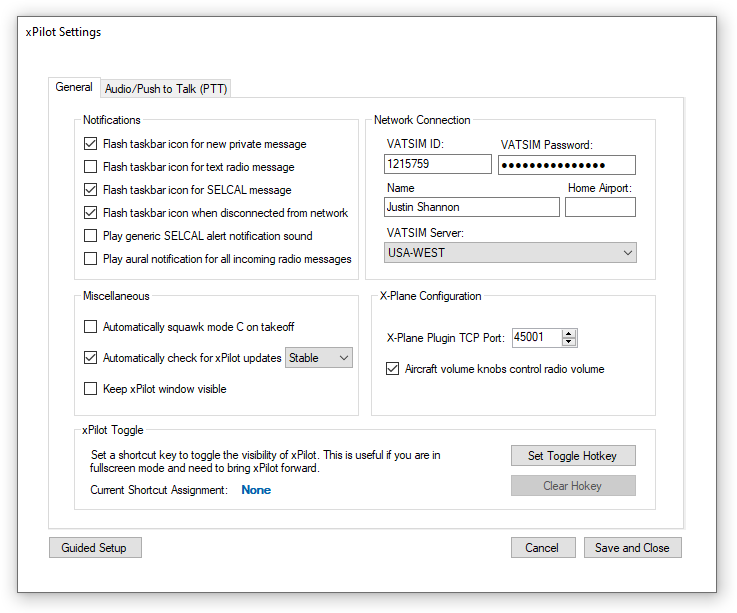
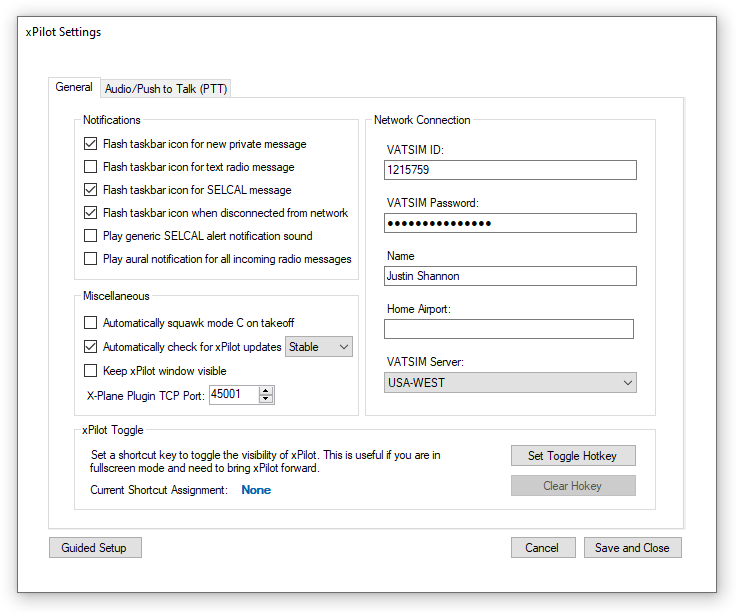
Update volume information and screenshots

Changed region(s): [[0.0936, 0.217, 0.8738, 0.6819]]

diff --git a/docs/user-guide.md b/docs/user-guide.md
@@ -45,11 +45,7 @@ This section contains a list of miscellaneous configuration options.
 * **Automatically squawk Mode C on takeoff** if checked, xPilot will automatically turn your transponder to Mode C after your aircraft leaves the ground.
 *  **Automatically check for xPilot updates** if checked, xPilot will automatically check for new versions when launched. It is recommended you leave this option checked. The dropdown box allows you to choose which update channel to use when checking for updates. If you're unsure of which channel, leave it as *Stable*.
 * **Keep xPilot window visible** if checked, the xPilot pilot client window will stay on top of all other windows.
-
-**X-Plane Configuration**
-* **Path to X-Plane.exe** click the *Browse* button and browse to the path where your X-Plane instance is installed. If you have more than one X-Plane version installed, you will need to update the path and reload xPilot before connecting to the network.
 * **X-Plane Plugin Port** xPilot will use this port number to communicate with the X-Plane plugin via TCP socket. The plugin port number **must** match the plugin port defined in the xPilot Preferences in X-Plane. **If you change the port number, you must restart X-Plane and xPilot.**
-* **Aircraft volume knobs control radio volume** if this option is checked, you can use the volume knobs in your aircraft to control the COM1 and COM2 volumes (if the aircraft uses the default volume datarefs). If this option is unchecked, you will have to manually adjust the volumes using the volume sliders in the **Audio/Push to Talk (PTT)** tab.
 
 **xPilot Toggle**\
 You can set a keyboard shortcut to quickly bring the xPilot client forward. This is useful if you only have one monitor.
